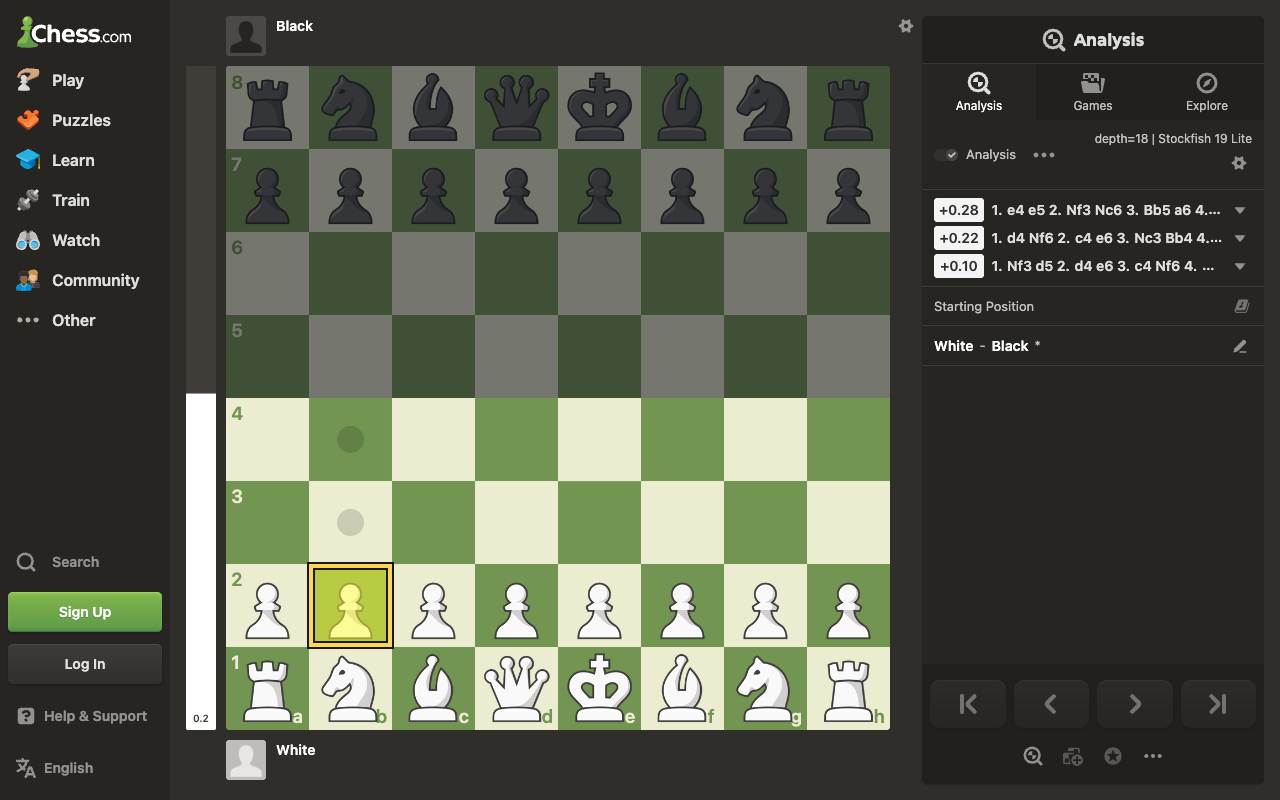
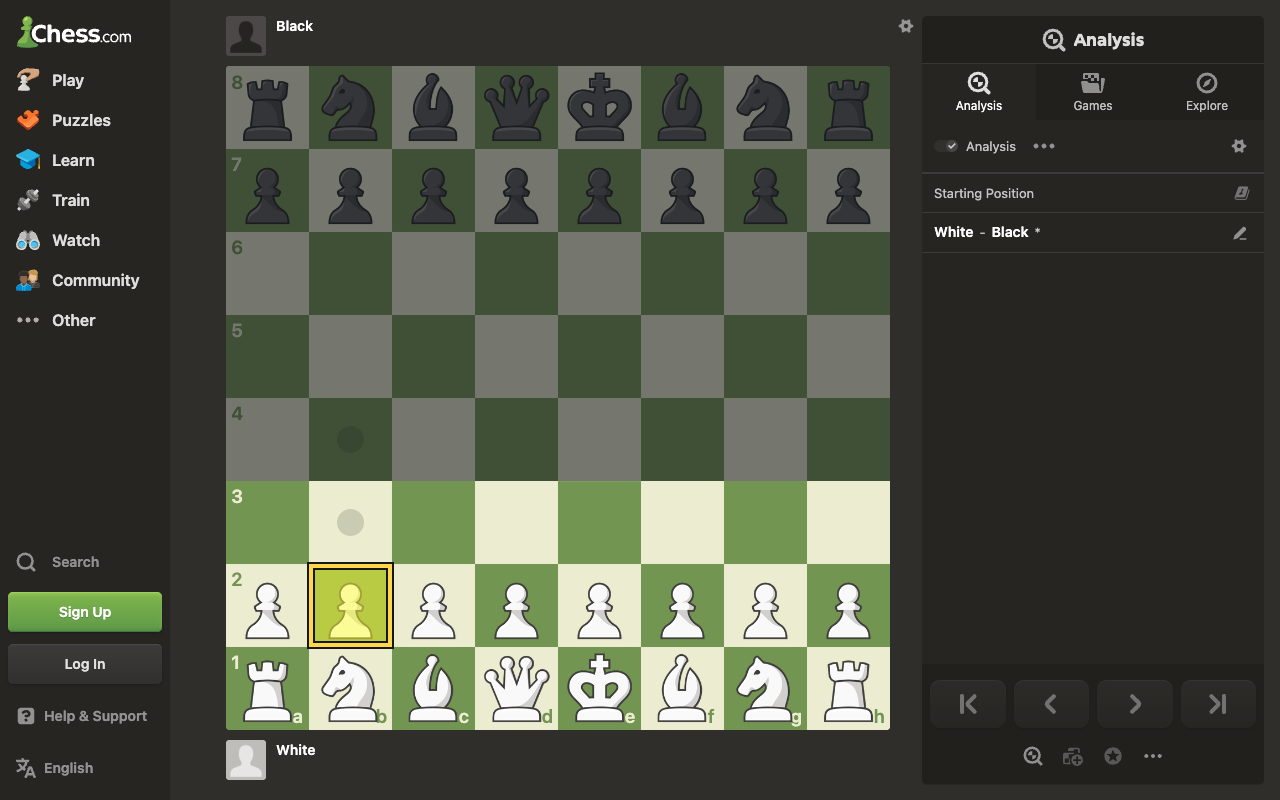
Prepare Chess Board Tools v1.1.2

diff --git a/docs/manual-release-steps.uk.md b/docs/manual-release-steps.uk.md
@@ -1,45 +1,58 @@
 # Ручні кроки релізу — у порядку виконання
 
-Стан на 2026-10-09: PR #10 і #12 merged; #11 закрита. Підписані release commit `d8ec72b` і tag `v1.1.1` перевірено; GitHub Release 1.1.1 вже має ZIP. Не змінювати цей tag або його артефакт. Нові матеріали й узгоджена назва підготовлені для **1.1.2**.
+Стан на 2026-10-10: PR #13 і #14 перевірені власником та merged у `main` (`986b1eb` і `223e5fe`). Наступний реліз — **v1.1.2**, включно з підготовкою магазинів, #11 та обома фіксами. Manifest уже має 1.1.2; tag і GitHub Release v1.1.2 ще не створені. Pages опубліковано й перевірено. Підписаний реліз 1.1.1 зберігається без змін. Актуальна діагностика та план: [release-plan-v1.1.2.uk.md](release-plan-v1.1.2.uk.md).
 
 Цей файл відрізняє дії власника від тих, які може виконати Codex після отримання доступу. Галочки ставити лише після фактичного виконання. Порядок — спочатку Chrome, потім macOS. Обидві версії безкоштовні; видавець — фізична особа.
 
-## 1. Підписати новий release commit і tag — власник
+## 1. Увімкнути Pages та перевірити support/privacy — власник + Codex
 
-Перед підписанням переглянути `git diff`, нові файли та `docs/store-preparation-validation.md`. Ці команди призначені для поточного checkout; не включати сторонні зміни. У разі зміни runtime-файлів повторити перевірки й скриншоти.
+- [x] У [Settings → Pages](https://github.com/saladin-uzh/chess-board-tools/settings/pages) вибрати source **GitHub Actions**. Це усуває підтверджену причину падіння run `37970530778`: сайт Pages раніше не був налаштований. Обліковий запис має admin access; зміна workflow не потрібна для цього виправлення.
+- [x] Повторна спроба №2 run `37970530778` успішна. Якщо source сайту зміниться, запустити актуальний workflow на `main`:
 
 ```bash
-cd /Users/saladin/code/labs/chess/chrome-extension
-node --test tests/*.test.cjs
-git diff --check
-git add manifest.json popup.html README.md README.uk.md .gitignore .github/workflows/pages.yml scripts/package-extension.py site safari docs/store docs/manual-release-steps.uk.md docs/store-preparation-validation.md docs/v1.1.2-release-notes.md
-git diff --cached --check
-git commit -S -m "Prepare Chess Board Tools v1.1.2 for store distribution"
-git verify-commit HEAD
-git tag -s v1.1.2 -m "Release v1.1.2"
-git verify-tag v1.1.2`
+gh workflow run pages.yml --repo saladin-uzh/chess-board-tools --ref main
 ```
 
-- [ ] Підписаний commit і tag перевірені. PIN/passphrase вводить власник; не передавати їх Codex і не зберігати в репозиторії.
+- [x] Deployment успішний; HTTP 200 та наявність Chess Board Tools перевірені для `/`, `/support.html`, `/support.uk.html`, `/privacy.html`, `/privacy.uk.html` на `https://saladin-uzh.github.io/chess-board-tools/`.
+- [x] Внутрішні EN/UK посилання сайту перевірені: HTTP 200. Перед store submission повторно перевірити всі URL із metadata.
 
-## 2. Фінальний ZIP, push і GitHub Release — може виконати Codex
+## 2. Підготувати й підписати release commit та tag — Codex + власник
 
-Після кроку 1 виконати:
+- [x] PR #15 (daily in-page analysis) перевірений повторно та merged `1721d15`; 74 тести пройшли.
+- [x] Власник після merge повідомив «Все, наче, працює» у контексті Safari daily analysis; це попередній runtime feedback. Candidate checks пройшли, 74 тести. Детальний Chrome store checklist залишається окремим gate. Попередній candidate checksum уже не актуальний; див. `release-plan-v1.1.2.uk.md`.
+
+- [ ] В окремому release checkout від актуального `main` підтвердити manifest/Safari version **1.1.2**; release notes уже оновлено у `docs/v1.1.2-release-notes.md`. Не змінювати встановлену Safari копію.
+- [ ] Повторити 72 регресійні тести, JavaScript syntax checks, package validation. Побудувати candidate 1.1.2, перевірити fog capture diagonals на одноразовій `/analysis`, клавіатуру в одноразовій unrated людській партії `/game/<id>` та перенесення налаштувань 1.1.1 → 1.1.2. Факт перевірки PR власником не підміняє результати встановленого фінального пакета.
+- [x] Оновлені analysis/fog та light/dark popup screenshots після #13/#14; перевірені 1280×800. Runtime evidence і candidate SHA-256: `docs/v1.1.2-validation.md`.
+- [x] Same-ID unpacked upgrade 1.1.1 → 1.1.2 повторно пройшов; shortcuts і локальні preferences збережені.
+- [ ] Власник перевіряє candidate у видимому ізольованому Chrome for Testing: одноразова unrated людська партія `/game/<id>`, координати, flip, focus guards і native confirmation. Профіль не має Chess.com login; увійти самостійно. До результату не підписувати/публікувати реліз.
+- [ ] Переглянути diff та підписати лише підготовлені release-файли. PIN/passphrase вводить власник.
+
+Наведені команди виконувати **лише в підготовленому release checkout**, після перевірок candidate і підготовки release diff. Якщо release preparation йде через PR, підписаний tag створювати після merge на окремому підписаному release commit в актуальному `main`: пакувальник перевіряє також підпис target commit.
+
+```bash
+node --test tests/*.test.cjs
+git diff --check
+git add manifest.json docs/v1.1.2-release-notes.md safari/README.md
+git diff --cached --check
+git commit -S -m "Prepare Chess Board Tools v1.1.2"
+git verify-commit HEAD
+git tag -s v1.1.2 -m "Release v1.1.2"
+git verify-tag v1.1.2
+```
+
+- [ ] Підпис commit/tag перевірений; tag включає обидва merge-коміти. Tag має відповідати manifest 1.1.2; не переписувати існуючі tags.
+
+## 3. Фінальний ZIP, push і GitHub Release — може виконати Codex
 
 ```bash
 python3 scripts/package-extension.py --ref v1.1.2
 ```
 
-Пакувальник перевіряє підпис tag і цільового commit, відповідність версії, 22 runtime-файли, manifest/HTML/CSS references та цілісність ZIP. Видає ZIP, `.sha256` і `.provenance.json` у `build/`. Final ZIP має бути ідентичний перевіреному candidate за SHA-256; різниця потребує повторної перевірки.
+Пакувальник перевіряє підпис tag і цільового commit, відповідність версії, 22 runtime-файли, manifest/HTML/CSS references та цілісність ZIP. Видає ZIP, `.sha256` і `.provenance.json` у `build/`. Final ZIP має збігатися з перевіреним **1.1.2 candidate** за SHA-256; старий candidate до #13/#14 не використовувати.
 
-- [ ] Push `main` і `v1.1.2`; не force-push. SSH origin у цій сесії не працював; HTTPS з наявним `gh auth git-credential` працював. Не змінювати глобальну конфігурацію Git.
-- [ ] Створити GitHub Release з `docs/v1.1.2-release-notes.md` і трьома фінальними артефактами. Не завантажувати candidate замість фінального ZIP.
-
-## 3. Опублікувати support/privacy — може виконати Codex
-
-- [ ] Після push увімкнути GitHub Pages із source **GitHub Actions** у цьому репозиторії. Workflow `.github/workflows/pages.yml` публікує лише `site/`.
-- [ ] Запустити workflow за потреби й перевірити HTTP 200 для `/`, `/support.html`, `/support.uk.html`, `/privacy.html`, `/privacy.uk.html` на `https://saladin-uzh.github.io/chess-board-tools/`.
-- [ ] Перевірити посилання й EN/UK сторінки. У dashboard магазинів використовувати лише підтверджені URL.
+- [ ] Push release commit у `main` і `v1.1.2`; не force-push. За потреби HTTPS з наявним `gh auth git-credential`, без зміни глобальної конфігурації Git.
+- [ ] Створити GitHub Release з `docs/v1.1.2-release-notes.md` та трьома фінальними артефактами. Перевірити version, provenance і завантажений checksum.
 
 ## 4. Chrome developer account — власник
 
@@ -51,7 +64,7 @@ python3 scripts/package-extension.py --ref v1.1.2
 - [ ] У двох профілях Chrome з тим самим обліковим записом, ввімкненою синхронізацією extensions/settings і встановленим **тим самим extension ID**, змінити shortcuts та підтвердити появу в другому профілі. Різні IDs unpacked/store extension не доводять Sync.
 - [ ] Переконатися, що fog/keyboard/tick preferences не синхронізуються. Перевірити поведінку з вимкненим Sync і після відновлення мережі.
 - [ ] У справжньому toolbar popup Chrome перевірити light/dark, перемикання з відкритим popup, Tab/Shift+Tab, expanded selects, checked/unchecked checkboxes, slider endpoints, loading/error/success і VoiceOver announcements. Headless extension-document перевірки не замінюють нативні меню чи screen reader.
-- [ ] Після встановлення фінального пакета повторити `/analysis` за `docs/store/review-notes.en.md`. Unpacked оновлення 1.1.1 → 1.1.2 зі збереженням параметрів уже перевірене; доставку оновлення через Web Store перевірити під час першого наступного магазинного релізу. Timer окремо перевірити проти одноразового бота, без активної людської партії.
+- [ ] Після встановлення фінального пакета повторити `/analysis` за `docs/store/review-notes.en.md`. Історично перевірене лише unpacked оновлення 1.1.1 → 1.1.2; для 1.1.2 повторити перевірку зі збереженням параметрів; доставку оновлення через Web Store перевірити під час першого наступного магазинного релізу. Timer окремо перевірити проти одноразового бота, без активної людської партії.
 
 ## 6. Chrome подання — може виконати Codex після кроків 1–5
 

diff --git a/docs/release-plan-v1.1.2.uk.md b/docs/release-plan-v1.1.2.uk.md
@@ -1,0 +1,62 @@
+# План релізу v1.1.2 — 2026-10-10
+
+Наступна версія після перевірених власником фіксів — **v1.1.2**. Цей документ оновлює план; manifest уже має 1.1.2, Pages опубліковано; підписання commit/tag та GitHub Release ще не виконані. Ручні кроки у порядку виконання збережені окремо в [manual-release-steps.uk.md](manual-release-steps.uk.md).
+
+## Підтверджений стан
+
+- [PR #13](https://github.com/saladin-uzh/chess-board-tools/pull/13): fog враховує діагоналі взяття пішаків; merge `986b1ebd149d41e6e76f125aa33463aeafddaefd`.
+- [PR #14](https://github.com/saladin-uzh/chess-board-tools/pull/14): keyboard adapter і bridge приймають прямий `/game/<numeric-id>`; merge `223e5fe7125b88fff5fa09b0c1b0dc80eebb9885`.
+- Поточний `main`: `6394e91`; manifest — 1.1.2. Після обох merges додано лише README badges. GitHub має лише tags/releases до v1.1.1 включно; наступний підписаний реліз — **v1.1.2**, що включає обидва фікси.
+- Issue #11 вже реалізовано в PR #12. Повторна реалізація dark popup не потрібна.
+- Store kit, icons, EN/UK descriptions, support/privacy source та Safari handoff підготовлені. Accounts, signed Safari app і store submissions не підтверджені.
+
+## Pages run: початкова помилка усунута
+
+У поточній історії GitHub Actions знайдено один run: [Support and privacy pages #37970530778](https://github.com/saladin-uzh/chess-board-tools/actions/runs/37970530778), push `5626b2f` від 2026-10-09. Перша спроба передує обом фіксам; повторна спроба №2 успішна 2026-10-10 о 18:37 за Києвом.
+
+Падіння на `actions/configure-pages@v6.0.0`:
+
+```text
+enablement: false
+Get Pages site failed. Please verify that the repository has Pages enabled
+and configured to build using GitHub Actions
+HttpError: Not Found
+```
+
+На момент первинної діагностики Pages API повертав HTTP 404. Тепер Pages налаштовано з `build_type: workflow`; configure/upload/deploy завершилися успішно. Публічні `/`, `/support.html`, `/support.uk.html`, `/privacy.html`, `/privacy.uk.html` повернули HTTP 200; кожна сторінка містить Chess Board Tools. Deployment побудовано з `5626b2f`, де source `site/` той самий, що й у поточному main.
+Workflow має `push.paths: site/**, .github/workflows/pages.yml` і `workflow_dispatch`. Фікси #13/#14 не змінювали ці шляхи, тому їхні merges не запустили Pages заново. Цей workflow не запускає Node tests та не будує extension ZIP; падіння не є доказом помилки фіксів.
+
+Налаштування source **GitHub Actions** та повторний запуск уже виконані. [Офіційна інструкція GitHub](https://docs.github.com/en/pages/getting-started-with-github-pages/configuring-a-publishing-source-for-your-github-pages-site). Зміна workflow для усунення цього падіння не потрібна. Поточний run history більше не має failed runs; перша невдала спроба залишається історією цього самого run.
+## Перевірки виконані на merged main
+
+В ізольованому worktree, без зміни встановленої Safari копії чи активної партії:
+
+- `node --test tests/*.test.cjs`: **72 passed, 0 failed**.
+- `node --check` для всіх top-level JavaScript: passed.
+- `python3 scripts/package-extension.py`: 22 runtime-файли, manifest у корені, references, CRC і byte-for-byte round trip пройшли.
[1 lines of base64/hex data omitted]
+
+Попередній [store-preparation-validation.md](store-preparation-validation.md) описує історичний candidate 1.1.2. Його browser screenshots, update test та старий checksum не переносити як нову валідацію пакета після #13/#14. Актуальні installed-candidate перевірки й screenshots: [v1.1.2-validation.md](v1.1.2-validation.md). Власник уточнив, що human-game сценарії раніше не перевірені; candidate передано у видимому ізольованому Chrome for Testing для login та одноразової unrated партії.
+
+## Порядок подальшої роботи
+
+1. **Pages — виконано:** source та deployment успішні; п’ять URL перевірені. Перед поданням повторно перевірити metadata links.
+2. **Release preparation:** в окремому checkout актуального main підтвердити manifest/Safari version 1.1.2; release notes тепер містять store preparation, #11, #13, #14. Без нових permissions чи storage migrations.
+3. **Candidate acceptance:** повторити автоматичні перевірки та deterministic packaging для 1.1.2. Fog перевірити на одноразовій `/analysis` для білих/чорних пішаків, країв і порожніх діагоналей. Keyboard перевірити в одноразовій unrated людській партії `/game/<id>`: source/destination, flip, focus guards, promotion, native confirmation. Зберегти точні OS/browser/package version та результати. Активну турнірну партію не використовувати.
+4. **Assets та upgrade — виконано:** analysis/fog та light/dark popup screenshots оновлені й візуально перевірені. Same-ID unpacked upgrade 1.1.1 → 1.1.2 зі збереженням Sync/local settings пройшов. Реальна cross-profile Chrome Sync, native toolbar popup і VoiceOver залишаються окремими gates.
+5. **Signed GitHub release:** власник підписує release commit і tag v1.1.2 на актуальному main з обома фіксами. Пакувальник перевіряє підписи обох. Побудувати final ZIP з tag, порівняти з прийнятим candidate, push без force, опублікувати release з ZIP/checksum/provenance.
+6. **Chrome Web Store:** account/payment власника; тільки перевірений final ZIP, metadata/privacy/review notes і screenshots; review з ручною публікацією після схвалення. Store review instructions залишаються на одноразовій `/analysis`, без активної партії; власна human-game регресія з кроку 3 — окрема acceptance-перевірка.
+7. **macOS App Store:** Apple account/Xcode/signing власника; Safari wrapper з enablement screen, version 1.1.2; signed-build installation/permissions/popup/settings/keyboard/fog/update, справжні Safari screenshots; лише потім submission і manual release.
+
+Спочатку завершити Chrome, потім macOS. Історичні підписані tags/assets не переписувати. Публікація в магазинах, Git-підпис і Apple distribution signing — різні кроки.
+
+
+## Додатковий gate перед релізом: daily analysis
+
+Safari перевірка власника підтвердила keyboard input на `/game/<id>`, але виявила
+відмову у вбудованому аналізі `/game/daily/<id>`. Окремий [PR #15](https://github.com/saladin-uzh/chess-board-tools/pull/15),
+commits `5e15b5a` і `45368a1`, додає analysis-контекст та очищує input state при зміні режиму/активності. Повторне Codex review `45368a1` не знайшло major issues; дискусію закрито, GitGuardian пройшов. PR merged як `1721d15`; 74 тести на merged main пройшли. Після merge власник повідомив «Все, наче, працює» у контексті Safari. Попередній runtime acceptance зафіксовано; наступний крок — підпис release commit/tag. Детальні Chrome/Safari store gates зберігаються. Пакет candidate
[1 lines of base64/hex data omitted]
+Попередній checksum і Chrome runtime evidence описують candidate до #15;
+повторити відповідні acceptance checks після merge. Встановлену Safari копію
+автоматично не оновлювали.

diff --git a/docs/v1.1.2-validation.md b/docs/v1.1.2-validation.md
@@ -1,0 +1,32 @@
+# v1.1.2 candidate validation — 2026-10-10
+
[1 lines of base64/hex data omitted]
+
+## Automated verification
+
+- 74 Node tests pass; all top-level JavaScript syntax checks and `git diff --check` pass.
+- Packaging validates manifest at ZIP root, references, explicit membership, CRC, and byte-for-byte round trip.
+- Repeated packaging produces the same candidate checksum.
+
+## Installed candidate runtime before PR #15
+
[1 lines of base64/hex data omitted]
+
+Used macOS 27.0.1 and Chrome for Testing 154.0.8037.0 in isolated persistent profiles, signed out of Chess.com. Candidate ZIP was extracted and loaded as an unpacked extension; this does not establish store installation or delivery. Original Safari checkout and active user games were untouched.
+
+- Popup reports version 1.1.2. Real Chrome Sync storage retains Enter/Control shortcuts; real local storage retains keyboard enabled, ticking disabled, White fog at 55%.
+- Four disposable FEN analysis positions validate white/black pawn capture diagonals on empty squares and board edges. Forward movement squares remain fogged. Assertions read actual overlay cell classes and board orientation.
+- Keyboard b2 → b3 produces `rnbqkbnr/pppppppp/8/8/8/1P6/P1PPPPPP/RNBQKBNR b KQkq - 0 1`.
+- Promotion a7 → a8, then n, uses the native promotion picker above fog and produces `N6k/8/8/8/8/8/8/7K b - - 0 1`.
+- Light/dark popup screenshots and analysis keyboard/fog screenshot regenerated at 1280×800 and visually inspected. Popup captures show the actual extension document in a tab, not the toolbar popup frame. No global system appearance change or active human-game screenshot.
+- Same-ID upgrade: load signed-tag v1.1.1 files in a fresh persistent profile, save preferences via popup, close Chrome, replace files with candidate ZIP, reopen same profile. Version becomes 1.1.2 and saved shortcuts/local settings plus rendered controls remain intact.
+
+## Owner Safari feedback after PR #15
+
+On 2026-10-10, after the merge, the owner reported: “Все, наче, працює.” This is provisional runtime feedback following the daily-analysis fix, not a detailed checklist or signed-app validation. Earlier owner feedback explicitly confirmed keyboard control on `/game/<id>`. Automated regressions cover daily analysis and input-state clearing across mode transitions.
+
+## Remaining store acceptance
+
+The Chrome human-game checklist (both orientations, focus guards, native confirmation) is not recorded as completed. Preserve it as a Chrome store acceptance gate; do not use a competitive/tournament game.
+
+Real cross-profile Chrome Sync, toolbar-native menus/theme/VoiceOver, Chrome Web Store delivery, and signed Safari app tests remain store gates. Owner GPG signing and the final signed-tag package are still pending. Git signing does not replace Apple or store signing.

diff --git a/docs/v1.1.2-release-notes.md b/docs/v1.1.2-release-notes.md
@@ -1,10 +1,13 @@
-# v1.1.2 — Store preparation and popup appearance
+# v1.1.2 — Pawn fog, human keyboard controls, and store preparation
 
+- Fix pawn fog visibility to follow capture diagonals rather than forward movement (PR #13).
+- Restore keyboard coordinate controls for human games opened at `/game/<numeric-id>` (PR #14).
+- Enable keyboard input in native daily-game analysis and clear buffered input when switching between analysis and playing (PR #15).
 - Use Chess Board Tools consistently in the manifest, toolbar title, and popup.
 - Include system light/dark popup appearance from PR #12 (issue #11), preserving native controls and settings behavior.
 - Prepare English/Ukrainian store descriptions, review instructions, support/privacy pages, store artwork, and a macOS packaging handoff.
 - Add deterministic runtime-only ZIP packaging with SHA-256, provenance, and signed-tag verification for final builds.
 
-No permissions, dependencies, storage migrations, board logic, or telemetry were added. Chrome Sync applies to shortcut preferences; fog and board helpers stay local. Safari setting synchronization is not promised.
+No new permissions, dependencies, storage migrations, or telemetry were added. Chrome Sync applies to shortcut preferences; fog and board helpers stay local. Safari setting synchronization is not promised.
 
-This version is a local release candidate until its commit and tag are manually signed. Support/privacy URLs become public only after GitHub Pages deployment. Store enrollment, real cross-device Sync, signed Safari packaging, and store submission remain separate gates; see `manual-release-steps.uk.md` and `store-preparation-validation.md`.
+This version is a local release candidate until its commit and tag are manually signed. Support/privacy pages are deployed; all five public pages returned HTTP 200 on 2026-10-10. Store enrollment, real cross-device Sync, signed Safari packaging, and store submission remain separate gates; see `manual-release-steps.uk.md` and `store-preparation-validation.md`.

diff --git a/docs/store/README.md b/docs/store/README.md
@@ -1,8 +1,10 @@
 # Store submission kit
 
-Prepared for candidate **1.1.2**. This kit is not a submitted or published listing.
+Next release target: **1.1.2**; the manifest already reads 1.1.2; both fixes are merged. This kit is not a submitted or published listing.
 PR #12, which implements issue #11, was merged into main at `7c9d4b1`.
 The earlier signed/published GitHub release 1.1.1 remains unchanged.
+PR #13 and #14 are merged. See `../release-plan-v1.1.2.uk.md` for the
+Pages failure diagnosis and updated release gates.
 
 ## Text and destinations
 
@@ -32,7 +34,8 @@ remains English. Do not advertise full Ukrainian UI localization.
 
 Use the same three Chrome screenshots for both listing locales: they accurately
 show the English UI. Screenshots were taken with Chrome for Testing 154.0.8037.0
-from the unpacked candidate ZIP. Popup captures show its real extension document
+from the current 1.1.2 unpacked candidate ZIP after PR #13/#14, regenerated
+and visually inspected on 2026-10-10. See `../v1.1.2-validation.md`. Popup captures show its real extension document
 in a tab, not the browser toolbar frame. No screenshot uses private account data,
 active human games, fabricated board overlays, or a fabricated Ukrainian UI.
 The promotional image is separately designed artwork, not a screenshot.
@@ -58,6 +61,6 @@ manifest version to match the tag. Git signatures do not replace store signing.
 - [Safari extension distribution](https://developer.apple.com/safari/extensions/)
 - [macOS screenshot specifications](https://developer.apple.com/help/app-store-connect/reference/app-information/screenshot-specifications)
 
-Public URLs in the metadata must be checked after deployment; they are currently
-planned destinations. No payment, store enrollment, Xcode installation,
+Public URLs in the metadata should be rechecked before submission; they are
+confirmed HTTP 200 destinations as of 2026-10-10. No payment, store enrollment, Xcode installation,
 App Store signing, or store submission happened during this preparation.

diff --git a/docs/store-preparation-validation.md b/docs/store-preparation-validation.md
@@ -1,5 +1,10 @@
 # Store preparation validation — 2026-10-09
 
+Historical evidence for candidate 1.1.2. The current target is **v1.1.2**
+after merged PR #13/#14; see [release-plan-v1.1.2.uk.md](release-plan-v1.1.2.uk.md)
+for current checks, the Pages failure diagnosis, and pending gates. The release
+status below describes the original preparation date.
+
 ## Source and release status
 
 - PR #10 was already merged when implementation began. Existing release commit `d8ec72b` and tag `v1.1.1` both passed Git signature verification. GitHub Release 1.1.1 already has its original ZIP; neither tag nor asset was replaced.
